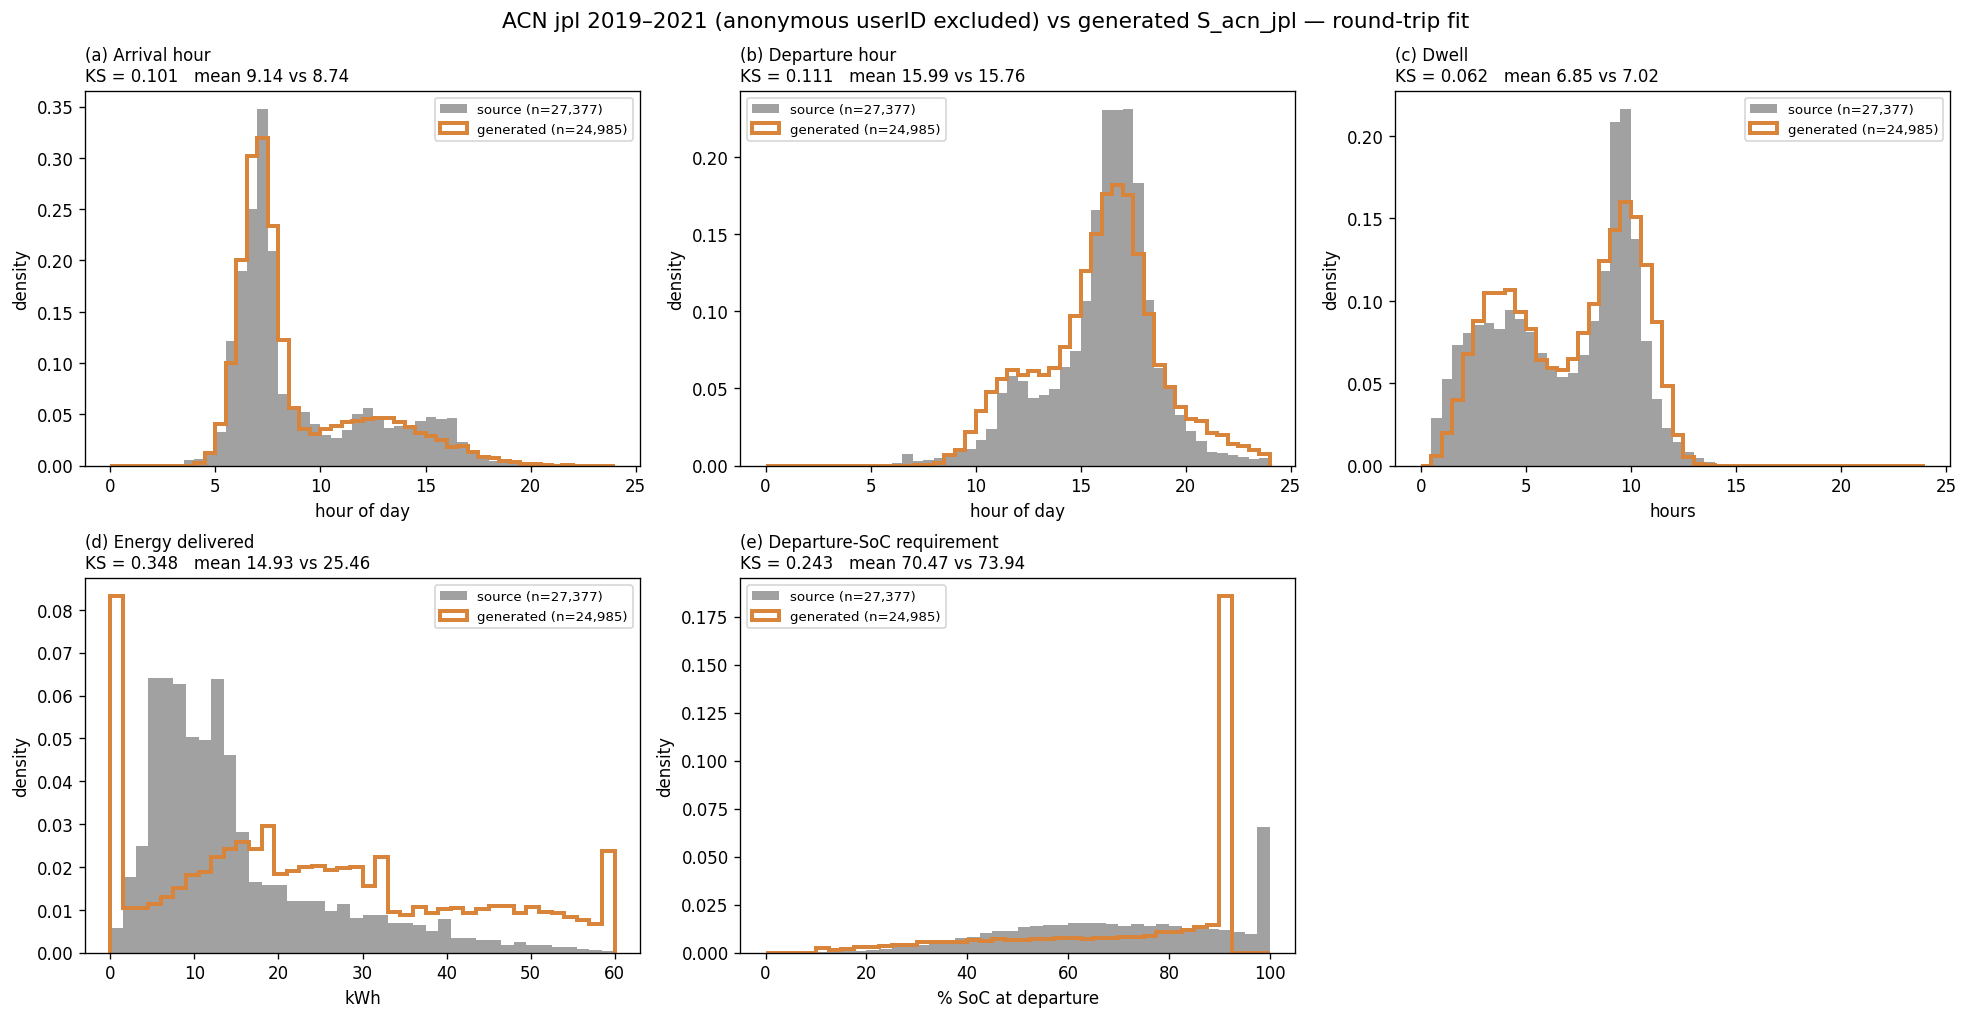
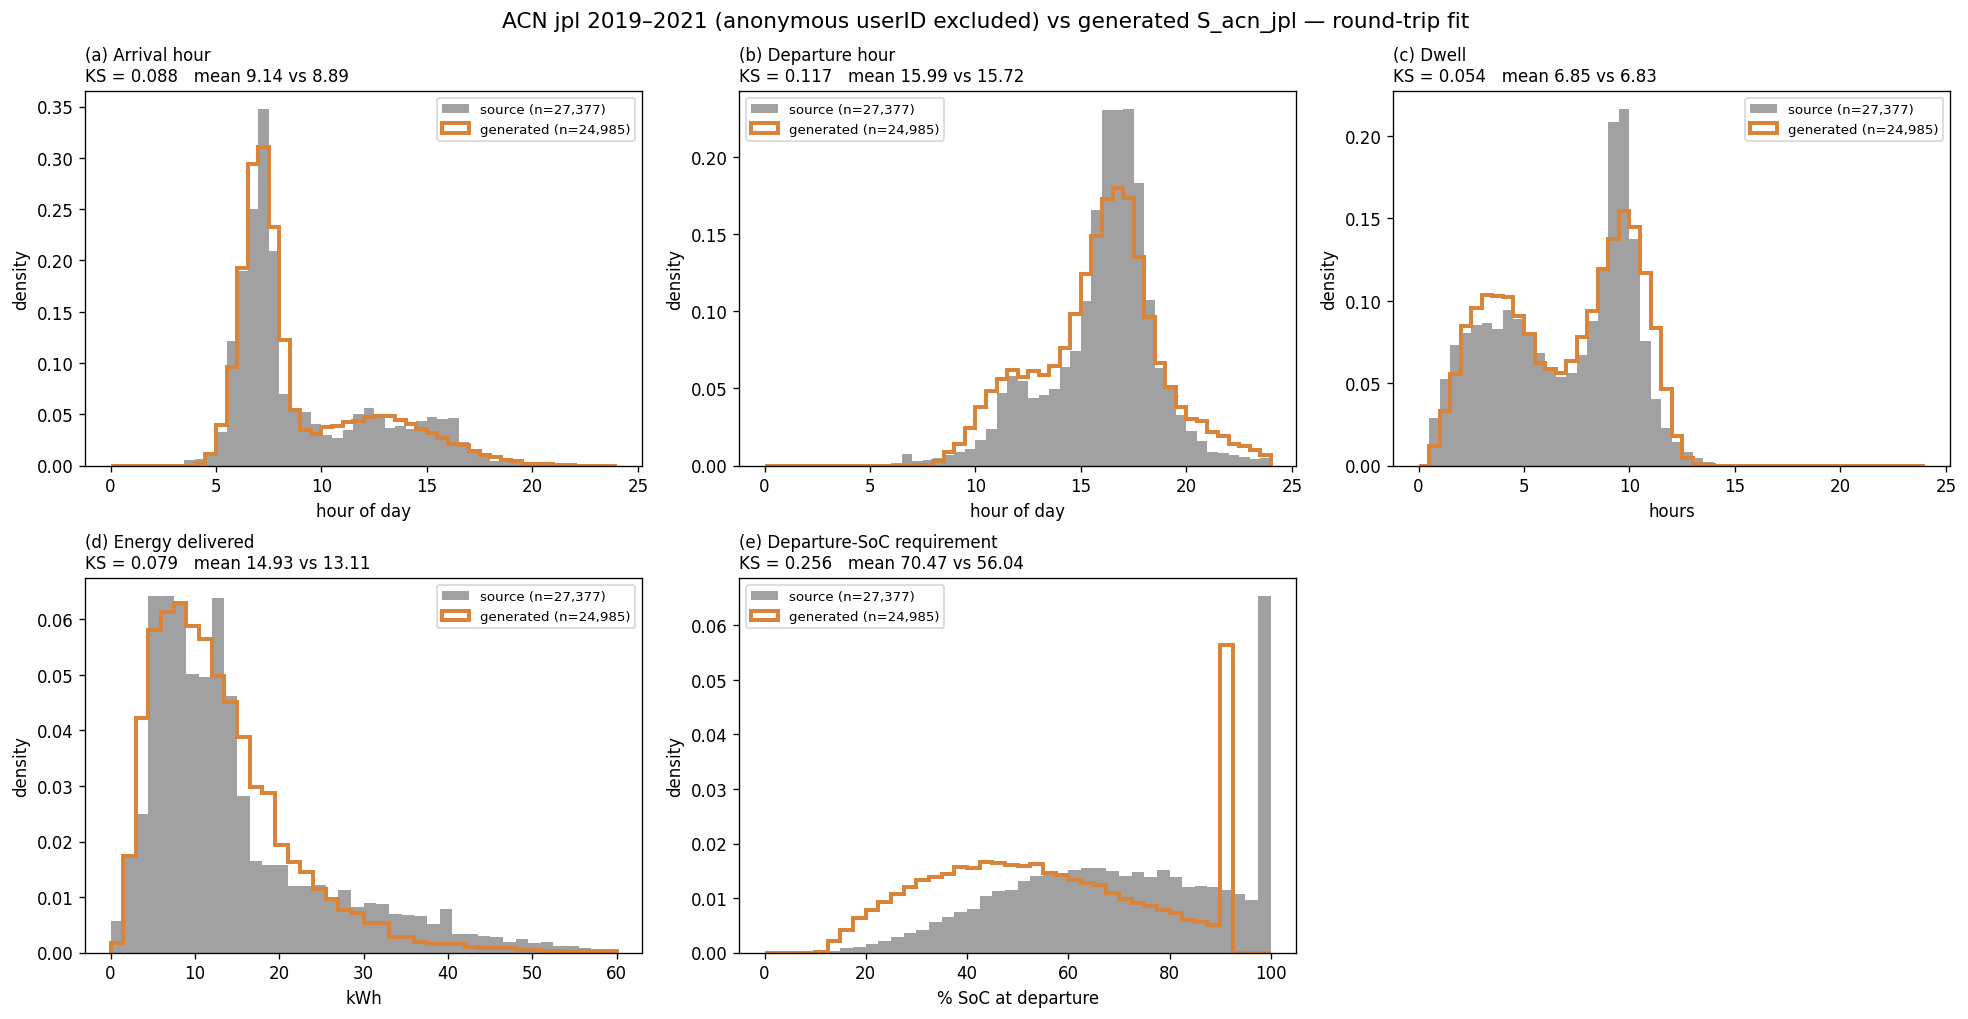
feat(model): calibrated per-session energy lognormal drives required_soc; phi_scale density knob
Session energy was the last badly-fit marginal (round-trip KS 0.35): the old
path drew a departure-SoC Beta and multiplied by the hand-authored battery_mix
(mean 60 kWh, median 75), inflating kWh ~2x with a 16.6% <1 kWh chain spike.
Delivered kWh is the ONLY energy quantity the source datasets meter (SoC never
is), and it is cleanly lognormal (JPL per-region KS 0.035-0.055), so:

- calibration fits region_distributions.<r>.energy = LogNormal(sigma, scale)
  to per-session delivered kWh (fit_lognorm_energy; energy.* in
  DIST_PARAM_RANGES; all 4 ACN baselines re-fit, office tiers re-anchored).
- generation draws the session's kWh from that fit and DERIVES
  required_soc = arrival + kwh/capacity (headroom-clamped, D6 kept, one RNG
  draw) — decoupling session energy from battery_mix. Priority: energy
  lognormal > soc_depart Beta > legacy N(85,5); uncalibrated paths untouched.
- the calibrated energy draw REPLACES the D7 min_depart_soc behavioral floor
  (a discretionary prior): with S01's 0.40 floor binding, small real sessions
  were forced up to fabricated 22 kWh refills. validate.py D7 skips
  energy-calibrated populations.
- user_behavior.phi_scale (default 1.0 = bitwise-safe): global multiplier on
  the drawn phi, capped 0.95, recorded in users.csv/manifest; G4 bounds scale
  with it. Source-faithful JPL utilization tops out at ~14 distinct users/day
  per 30 EVs (regular chargers plug in 53% of weekdays); the knob densifies
[…]

diff --git a/tests/test_depart_soc_knobs.py b/tests/test_depart_soc_knobs.py
@@ -36,3 +36,54 @@ def test_override_shifts_required_soc(fast_generate):
     lo = pd.read_csv(out_lo / "sessions.csv")["required_soc_at_depart"]
     assert len(hi) and len(lo)
     assert lo.mean() < hi.mean(), (lo.mean(), hi.mean())
+
+
+# --------------------------------------------------------------------------- #
+# Energy-first departure requirement (2026-08)
+# --------------------------------------------------------------------------- #
+def test_energy_block_drives_required_soc(fast_generate):
+    """A calibrated `energy` lognormal must produce session energies whose
+    distribution tracks the fitted lognormal, independent of battery_mix."""
+    import numpy as np
+    import pandas as pd
+    import scipy.stats as st
+    import yaml
+
+    out, _ = fast_generate(scenario="S_acn_jpl", seed=11,
+                           overrides={"ev_fleet.ev_count": 120,
+                                      "charging_infra.charger_count": 60})
+    s = pd.read_csv(out / "sessions.csv")
+    cars = pd.read_csv(out / "cars.csv").set_index("car_id")["capacity_kwh"]
+    kwh = ((s["required_soc_at_depart"] - s["arrival_soc"]) / 100.0
+           * s["car_id"].map(cars))
+    pops = yaml.safe_load(open("configs/populations.yaml"))
+    e = pops["acn_jpl_baseline"]["region_distributions"]["regular_charger"]["energy"]
+    # Model medians per region are ~10.4-11.8 kWh; the generated median must be
+    # in that neighborhood, not the old gap*capacity regime (median ~22 kWh).
+    assert 6.0 < np.median(kwh) < 16.0, f"median {np.median(kwh):.1f}"
+    # And the marginal must be close to the fitted lognormal (headroom clamp
+    # trims the top, so allow a loose KS bound).
+    ref = st.lognorm.rvs(e["sigma"], scale=e["scale"], size=4000,
+                         random_state=np.random.default_rng(0))
+    assert st.ks_2samp(kwh, ref).statistic < 0.2
+
+
+def test_phi_scale_densifies_appearance(fast_generate):
+    """phi_scale multiplies the drawn φ (capped 0.95): more distinct cars/day."""
+    import pandas as pd
+
+    base, _ = fast_generate(scenario="S_acn_jpl", seed=3,
+                            overrides={"ev_fleet.ev_count": 60,
+                                       "charging_infra.charger_count": 30})
+    dense, _ = fast_generate(scenario="S_acn_jpl", seed=3,
+                             overrides={"ev_fleet.ev_count": 60,
+                                        "charging_infra.charger_count": 30,
+                                        "user_behavior.phi_scale": 1.7})
+    def daily(out):
+        s = pd.read_csv(out / "sessions.csv")
+        a = pd.to_datetime(s["arrival"])
+        return s.groupby(a.dt.date)["car_id"].nunique().mean()
+    b, d = daily(base), daily(dense)
+    assert d > b * 1.3, f"phi_scale had insufficient effect: {b:.1f} -> {d:.1f}"
+    u = pd.read_csv(dense / "users.csv")
+    assert (u["phi"] <= 0.95 + 1e-9).all()

diff --git a/src/v2b_syndata/renderers/sessions.py b/src/v2b_syndata/renderers/sessions.py
@@ -328,11 +328,32 @@ def render(ctx: ScenarioContext) -> None:
                     # User arrived too charged for any valid target → drop session-day.
                     break
 
-                # Departure-SoC requirement: calibrated Beta per region when
-                # available (sample on [0,1], clamp into the D6/D7 band), else
-                # the hardcoded N(85, 5) — kept bit-identical for uncalibrated
-                # populations (same single RNG draw).
-                if soc_depart_p is not None:
+                # Departure-SoC requirement, by priority (one RNG draw each way):
+                #   1. calibrated per-region ENERGY lognormal — draw the session's
+                #      delivered kWh directly (the only energy quantity the source
+                #      datasets meter) and derive required_soc = arrival +
+                #      kwh/capacity, clamped to the car's headroom. Decouples
+                #      session energy from the hand-authored battery_mix.
+                #   2. calibrated soc_depart Beta (legacy calibrated path).
+                #   3. hardcoded N(85, 5) — bit-identical for uncalibrated
+                #      populations.
+                if soc_depart_p is not None and "energy_sigma" in soc_depart_p:
+                    kwh_draw = float(stats.lognorm.ppf(
+                        float(rng.random()),
+                        soc_depart_p["energy_sigma"],
+                        scale=soc_depart_p["energy_scale"],
+                    ))
+                    # The calibrated energy draw REPLACES the D7 behavioral
+                    # floor (min_depart_soc): D7 is a discretionary prior for
+                    # synthetic populations, and letting it bind here forces
+                    # small empirical sessions up to the floor (arrival 10% +
+                    # 5 kWh -> 40% floor = a fabricated 22 kWh session on a
+                    # 75 kWh pack). Only the structural D6 rule (required >
+                    # arrival) and the car's headroom still apply.
+                    floor_e = a_soc_pct + _FLOOR_EPSILON
+                    r_soc_pct = max(floor_e, min(
+                        ceiling, a_soc_pct + kwh_draw / car.capacity_kwh * 100.0))
+                elif soc_depart_p is not None:
                     beta_d = float(rng.beta(soc_depart_p["alpha"], soc_depart_p["beta"])) * 100.0
                     r_soc_pct = max(floor, min(ceiling, beta_d))
                 else:

diff --git a/src/v2b_syndata/validate.py b/src/v2b_syndata/validate.py
@@ -378,7 +378,17 @@ def _check_d(rep: ValidationReport, csvs: dict[str, pd.DataFrame],
     d5_enforced = "d5_enforcement" in noise_block
     res = manifest.get("knob_resolution", {})
     mds_entry = res.get("user_behavior.min_depart_soc")
-    if mds_entry is not None and not d5_enforced:
+    # Skip when the population carries a calibrated per-region ENERGY block:
+    # the renderer's energy-first draw deliberately replaces the D7 behavioral
+    # floor with the empirical session-energy distribution (D7 is documented
+    # as a discretionary prior, not a hard constraint), so small real-world
+    # sessions below the floor are correct output, not a defect.
+    energy_calibrated = any(
+        path.startswith("user_behavior.region_distributions.")
+        and path.endswith(".energy.sigma")
+        for path in res
+    )
+    if mds_entry is not None and not d5_enforced and not energy_calibrated:
         mds_pct = float(mds_entry["value"]) * 100.0
         bad_d7 = sess[sess["required_soc_at_depart"] < mds_pct]
         if len(bad_d7) > 0:
@@ -630,7 +640,10 @@ def _check_f(rep: ValidationReport, csvs: dict[str, pd.DataFrame],
                     f"F5: region {r['name']} share {actual:.3f} vs {expected:.3f} (tol {tol:.3f}, n={n})"
                 )
 
-    # G4: (phi, delta) within declared region bounds (kappa removed 2026-08)
+    # G4: (phi, delta) within declared region bounds (kappa removed 2026-08).
+    # users.csv records the EFFECTIVE φ — post phi_scale, capped at 0.95 — so
+    # the acceptance band is the region's bin scaled the same way.
+    phi_scale = float(res.get("user_behavior.phi_scale", {}).get("value", 1.0))
     if axes:
         region_lookup = {r["name"]: r for r in axes}
         for _, row in users.iterrows():
@@ -638,8 +651,10 @@ def _check_f(rep: ValidationReport, csvs: dict[str, pd.DataFrame],
             if region is None:
                 continue
             f_lo, f_hi = region["freq"]
+            f_lo = min(0.95, f_lo * phi_scale)
+            f_hi = min(0.95, f_hi * phi_scale)
             d_lo, d_hi = region["dist_km"]
-            ok = (f_lo <= row["phi"] <= f_hi and
+            ok = (f_lo - 1e-9 <= row["phi"] <= f_hi + 1e-9 and
                   d_lo <= row["delta_km"] <= d_hi)
             if not ok:
                 rep.errors.append(

diff --git a/src/v2b_syndata/samplers/sessions_dist.py b/src/v2b_syndata/samplers/sessions_dist.py
@@ -118,12 +118,22 @@ def sample_f_soc(ctx: ScenarioContext) -> None:
             "clip_lo": car.min_allowed_soc / 100.0,
             "clip_hi": car.max_allowed_soc / 100.0,
         }
-        # Departure-SoC requirement: None → renderer keeps the hardcoded
-        # N(85, 5) fallback (bit-identical for uncalibrated populations).
+        # Departure-SoC requirement, by priority (renderer branches the same way):
+        #   1. calibrated per-region ENERGY lognormal (2026-08): draw session kWh
+        #      directly (the metered quantity) and derive required_soc — this
+        #      decouples energy from battery_mix;
+        #   2. calibrated soc_depart Beta (legacy calibrated path);
+        #   3. None → renderer keeps the hardcoded N(85, 5) fallback
+        #      (bit-identical for uncalibrated populations).
         dep_cal = _region_dist(ctx, u.region, "soc_depart")
-        depart_params[car_id] = (
-            {"alpha": float(dep_cal["alpha"]), "beta": float(dep_cal["beta"])}
-            if "alpha" in dep_cal and "beta" in dep_cal else None
-        )
+        energy_cal = _region_dist(ctx, u.region, "energy")
+        dep_entry: dict[str, float] | None = None
+        if "alpha" in dep_cal and "beta" in dep_cal:
+            dep_entry = {"alpha": float(dep_cal["alpha"]), "beta": float(dep_cal["beta"])}
+        if "sigma" in energy_cal and "scale" in energy_cal:
+            dep_entry = dict(dep_entry or {})
+            dep_entry["energy_sigma"] = float(energy_cal["sigma"])
+            dep_entry["energy_scale"] = float(energy_cal["scale"])
+        depart_params[car_id] = dep_entry
     ctx.latents["f_soc"] = params
     ctx.latents["f_soc_depart"] = depart_params

diff --git a/src/v2b_syndata/calibration/distribution_fitter.py b/src/v2b_syndata/calibration/distribution_fitter.py
@@ -339,6 +339,33 @@ def fit_beta_soc(soc_fractions: np.ndarray, leaf_prefix: str = "soc_arrival") ->
                         {"alpha": f"{leaf_prefix}.alpha", "beta": f"{leaf_prefix}.beta"})
 
 
+def fit_lognorm_energy(kwh_delivered: np.ndarray) -> dict[str, Any] | None:
+    """Fit LogNormal(sigma, scale) to per-session delivered energy (kWh).
+
+    Delivered kWh is the only energy quantity the source datasets actually
+    meter (SoC is never recorded), so it is fitted directly; generation draws a
+    session's energy from this and derives the departure-SoC requirement.
+    Across-family check on ACN JPL: lognorm KS 0.035-0.055 per region vs
+    gamma 0.084 / weibull 0.099 pooled. Returns None below MIN_SAMPLES or if
+    any param falls outside DIST_PARAM_RANGES (B4 guard).
+    """
+    arr = np.asarray(kwh_delivered, dtype=float)
+    arr = arr[arr > 0.05]
+    n = int(len(arr))
+    if n < MIN_SAMPLES:
+        return None
+    shape, _, scale = st.lognorm.fit(arr, floc=0)
+    shape = float(shape)
+    scale = float(scale)
+    if shape <= 0 or scale <= 0:
+        return None
+    ks = float(st.kstest(arr, "lognorm", args=(shape, 0, scale)).statistic)
+    fit = {"dist": "lognorm", "sigma": shape, "scale": scale,
+           "n_samples": n, "ks_fit_quality": ks}
+    return _drop_if_oor("energy", fit,
+                        {"sigma": "energy.sigma", "scale": "energy.scale"})
+
+
 def fit_copula_rho(arrivals: np.ndarray, dwells: np.ndarray) -> dict[str, Any]:
     """Compute Spearman ρ + Gaussian-copula correlation."""
     n = int(min(len(arrivals), len(dwells)))

diff --git a/src/v2b_syndata/calibration/api.py b/src/v2b_syndata/calibration/api.py
@@ -20,6 +20,7 @@ from .distribution_fitter import (
     MIN_SAMPLES,
     MIXTURE_MIN_SAMPLES,
     fit_beta_soc,
+    fit_lognorm_energy,
     fit_region,
     fit_truncnorm_arrival,
     fit_truncnorm_mixture_arrival,
@@ -302,11 +303,14 @@ def _calibrate_one_population(
         dwell_list: list[float] = []
         soc_list: list[float] = []
         depart_list: list[float] = []
+        kwh_list: list[float] = []
         for u in region_users:
             sess = sessions_by_uid.get(u.user_id, [])
             for s in sess:
                 arr_list.append(s.arrival_hour)
                 dwell_list.append(s.dwell_hours)
+                if s.kwh_delivered and s.kwh_delivered > 0:
+                    kwh_list.append(float(s.kwh_delivered))
             socs = arr_soc_by_uid.get(u.user_id, [])
             soc_list.extend(socs)
             depart_list.extend(depart_soc_by_uid.get(u.user_id, []))
@@ -335,6 +339,12 @@ def _calibrate_one_population(
             phi_fit = fit_beta_soc(phi_vals, leaf_prefix="phi")
             if phi_fit is not None:
                 clean["phi"] = phi_fit
+        # Per-session delivered-energy lognormal (2026-08): the metered kWh is
+        # the primal energy signal; generation draws it directly and derives
+        # required_soc, decoupling energy from the hand-authored battery_mix.
+        energy_fit = fit_lognorm_energy(np.asarray(kwh_list, dtype=float))
+        if energy_fit is not None:
+            clean["energy"] = energy_fit
         if clean or fit.get("arrival") is not None:
             region_fits[rname] = clean
 

diff --git a/tests/test_calibration/test_distribution_fitter.py b/tests/test_calibration/test_distribution_fitter.py
@@ -86,3 +86,28 @@ def test_fit_region_does_not_fit_arrival_soc():
     assert FIT_SOC_ARRIVAL is False
     assert out["soc_arrival"] is None
     assert out["soc_depart"] is not None, "departure SoC carries real signal — keep it"
+
+
+# --------------------------------------------------------------------------- #
+# Per-session delivered-energy lognormal (2026-08)
+# --------------------------------------------------------------------------- #
+def test_fit_lognorm_energy_recovers_params():
+    import numpy as np
+
+    from v2b_syndata.calibration.distribution_fitter import fit_lognorm_energy
+
+    rng = np.random.default_rng(5)
+    kwh = rng.lognormal(mean=np.log(11.5), sigma=0.7, size=5000)
+    fit = fit_lognorm_energy(kwh)
+    assert fit is not None and fit["dist"] == "lognorm"
+    assert abs(fit["scale"] - 11.5) < 1.0
+    assert abs(fit["sigma"] - 0.7) < 0.05
+    assert fit["ks_fit_quality"] < 0.03
+
+
+def test_fit_lognorm_energy_below_min_samples_returns_none():
+    import numpy as np
+
+    from v2b_syndata.calibration.distribution_fitter import fit_lognorm_energy
+
+    assert fit_lognorm_energy(np.array([5.0] * 10)) is None

diff --git a/src/v2b_syndata/samplers/per_entity.py b/src/v2b_syndata/samplers/per_entity.py
@@ -58,6 +58,11 @@ def sample_a_user(ctx: ScenarioContext) -> None:
     alpha_w1, alpha_w2 = U["w_multiplier"]
 
     region_dists = U.get("region_distributions") or {}
+    # Global φ multiplier (default 1.0 = source-faithful). Applied to the drawn
+    # φ and capped at 0.95 so appearance stays a proper Bernoulli rate; the
+    # scaled value is what lands in users.csv (the effective rate, honestly).
+    phi_scale = float(ctx.knobs.get("user_behavior.phi_scale")) \
+        if ctx.knobs.has("user_behavior.phi_scale") else 1.0
 
     out: dict[int, UserAttrs] = {}
     for car_id in range(1, ev_count + 1):
@@ -81,6 +86,7 @@ def sample_a_user(ctx: ScenarioContext) -> None:
             phi = min(max(phi, phi_lo), phi_hi)
         else:
             phi = float(rng.uniform(phi_lo, phi_hi))
+        phi = min(0.95, phi * phi_scale)
         delta = float(rng.uniform(region["dist_km"][0], region["dist_km"][1]))
         # Negotiation
         nidx = int(rng.choice(len(NEG_TYPES), p=neg_mix))

diff --git a/src/v2b_syndata/knob_loader.py b/src/v2b_syndata/knob_loader.py
@@ -70,6 +70,13 @@ DIST_PARAM_RANGES: dict[str, tuple[float, float]] = {
     # volume overshoot. Drawn per car in per_entity.sample_a_user.
     "phi.alpha": (0.01, 100.0),
     "phi.beta": (0.01, 100.0),
+    # Per-session delivered-energy lognormal (2026-08): kWh is the ONLY energy
+    # quantity any charging dataset measures, so generation draws it directly
+    # and DERIVES required_soc = arrival + kwh/capacity — decoupling session
+    # energy from the hand-authored battery_mix. sigma is the lognorm shape,
+    # scale = exp(mu) in kWh.
+    "energy.sigma": (0.01, 5.0),
+    "energy.scale": (0.1, 100.0),
     "soc_arrival.alpha": (0.01, 50.0),
     "soc_arrival.beta": (0.01, 50.0),
     "soc_depart.alpha": (0.01, 50.0),
